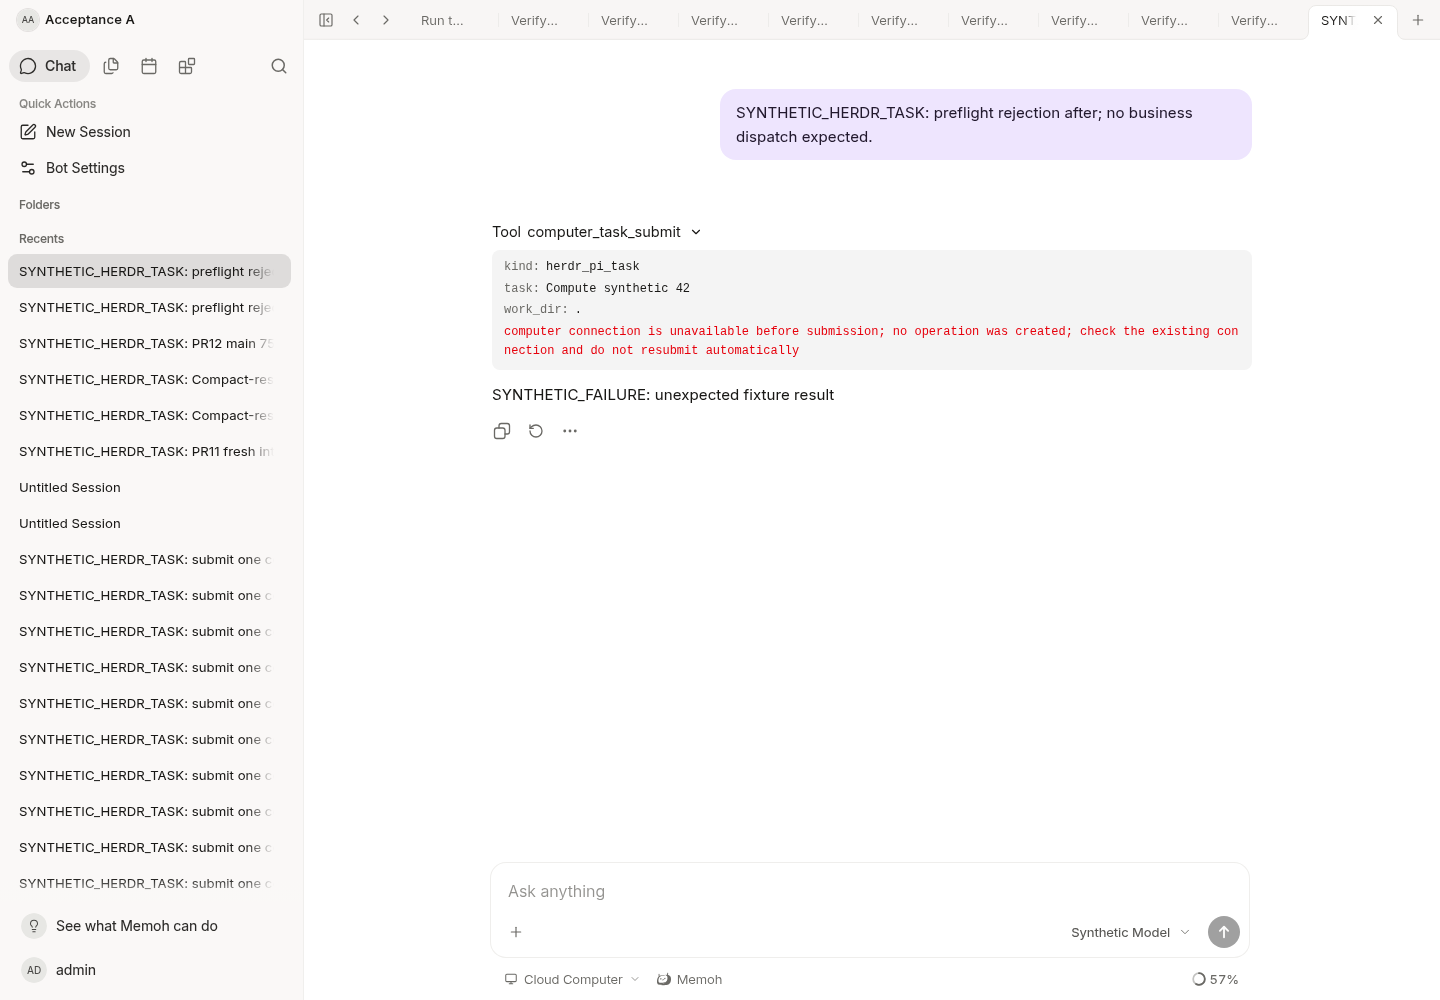
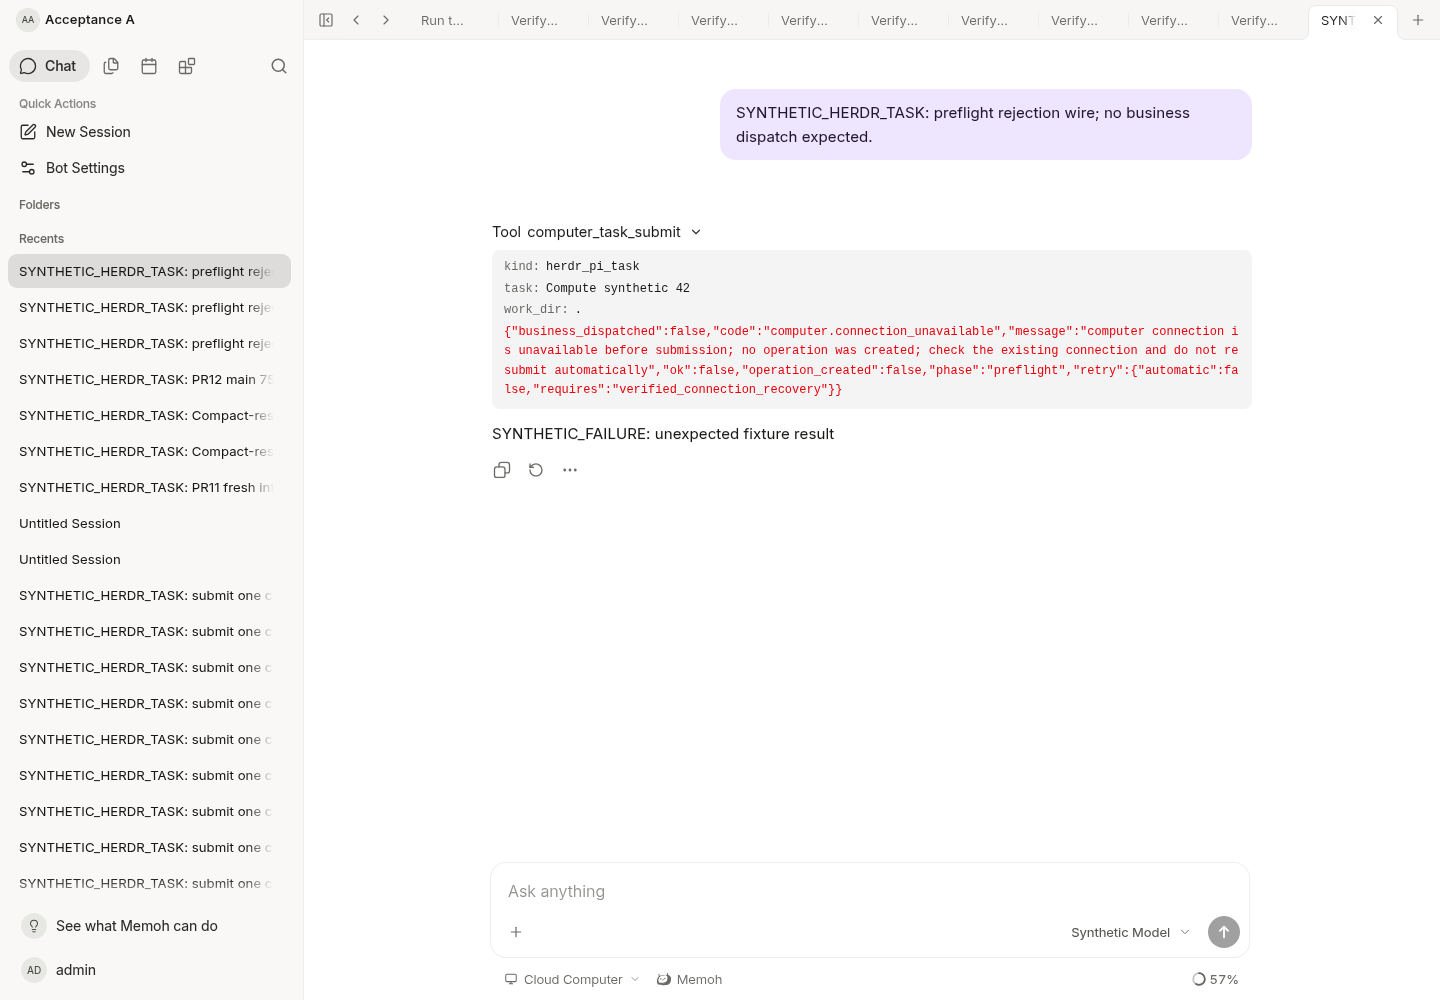
fix(computer): expose structured preflight retry semantics

diff --git a/internal/computertask/source_test.go b/internal/computertask/source_test.go
@@ -307,6 +307,46 @@ func parseResult(t *testing.T, raw []byte) Result {
 	return v.Computer
 }
 
+func TestStandardMCPPreflightFailureHasNonRetryableStructuredFacts(t *testing.T) {
+	source, store, transport, _ := setupBatch(t)
+	source.service.authorize = func(context.Context, toolcontext.ComputerBinding, string, string, string) error {
+		return fmt.Errorf("private diagnostic SECRET: %w", ErrPreflightUnavailable)
+	}
+	client := standardClient(t, source, "pc-a", false)
+	response, err := client.CallTool(t.Context(), &sdkmcp.CallToolParams{Name: "computer_task_submit", Arguments: map[string]any{"kind": "herdr_pi_task", "task": "Compute synthetic 42", "work_dir": "."}})
+	if err != nil || !response.IsError {
+		t.Fatalf("MCP preflight result=%v err=%v", response, err)
+	}
+	wire, err := json.Marshal(response.StructuredContent)
+	if err != nil {
+		t.Fatal(err)
+	}
+	var facts map[string]any
+	if err := json.Unmarshal(wire, &facts); err != nil {
+		t.Fatal(err)
+	}
+	retry, ok := facts["retry"].(map[string]any)
+	if !ok || facts["ok"] != false || facts["code"] != "computer.connection_unavailable" || facts["phase"] != "preflight" || facts["operation_created"] != false || facts["business_dispatched"] != false || retry["automatic"] != false || retry["requires"] != "verified_connection_recovery" {
+		t.Fatalf("preflight machine contract=%s", wire)
+	}
+	if _, exists := facts["computer"]; exists {
+		t.Fatal("invented operation receipt")
+	}
+	if _, exists := facts["operation_id"]; exists {
+		t.Fatal("invented operation ID")
+	}
+	if len(response.Content) != 1 {
+		t.Fatal("missing MCP text fallback")
+	}
+	text, ok := response.Content[0].(*sdkmcp.TextContent)
+	if !ok || text.Text != string(wire) {
+		t.Fatal("MCP text and structured facts differ")
+	}
+	if strings.Contains(string(wire), "SECRET") || len(store.records) != 0 || len(transport.calls) != 0 || transport.runs != 0 {
+		t.Fatal("private diagnostic leaked or preflight dispatched work")
+	}
+}
+
 func TestStandardMCPTrustedPCBindingAndSingleTask(t *testing.T) {
 	source, _, f := setup(t)
 	c := standardClient(t, source, "pc-a", false)

diff --git a/cmd/internal/core/computer_tasks_preflight_test.go b/cmd/internal/core/computer_tasks_preflight_test.go
@@ -114,10 +114,19 @@ func TestComputerTaskPreflightFailureIsNotConversationDenial(t *testing.T) {
 				args["target_id"] = tc.target
 			}
 			result, err := source.CallTool(ctx, session, "computer_task_submit", args)
-			if !errors.Is(err, tc.want) || result != nil {
+			if errors.Is(tc.want, computertask.ErrPreflightUnavailable) {
+				if err != nil || result["isError"] != true {
+					t.Fatalf("preflight wire result=%v err=%v", result, err)
+				}
+				data, ok := result["structuredContent"].(map[string]any)
+				if !ok || data["code"] != "computer.connection_unavailable" || data["phase"] != "preflight" || data["operation_created"] != false || data["business_dispatched"] != false {
+					t.Fatalf("missing machine-readable preflight facts: %v", data)
+				}
+			} else if !errors.Is(err, tc.want) || result != nil {
 				t.Fatalf("result=%v err=%v want=%v", result, err, tc.want)
 			}
-			if strings.Contains(err.Error(), "SECRET") || store.claims != 0 || probes != tc.probes {
+			wire, marshalErr := json.Marshal(result)
+			if marshalErr != nil || strings.Contains(string(wire), "SECRET") || (err != nil && strings.Contains(err.Error(), "SECRET")) || store.claims != 0 || probes != tc.probes {
 				t.Fatalf("error leaked or effect reached: claims=%d probes=%d", store.claims, probes)
 			}
 		})

diff --git a/internal/computertask/source.go b/internal/computertask/source.go
@@ -103,6 +103,18 @@ func (s *Source) CallTool(ctx context.Context, session mcp.ToolSessionContext, n
 		return nil, mcp.ErrToolNotFound
 	}
 	if err != nil {
+		if name == "computer_task_submit" && errors.Is(err, ErrPreflightUnavailable) {
+			// These facts describe this call, not the state of any older task.
+			// Do not use this envelope for uncertain claim/dispatch outcomes.
+			out := mcp.BuildToolSuccessResult(map[string]any{
+				"ok": false, "code": "computer.connection_unavailable", "phase": "preflight",
+				"operation_created": false, "business_dispatched": false,
+				"retry":   map[string]any{"automatic": false, "requires": "verified_connection_recovery"},
+				"message": ErrPreflightUnavailable.Error(),
+			})
+			out["isError"] = true
+			return out, nil
+		}
 		if receipt, ok := value.(Result); ok && receipt.ID != "" {
 			out := mcp.BuildToolSuccessResult(map[string]any{"computer": receipt, "error": err.Error()})
 			out["isError"] = true

diff --git a/docs/computer-task-compact-result.md b/docs/computer-task-compact-result.md
@@ -105,6 +105,17 @@ existing connection must be checked before another submission. It does not
 infer OAuth expiration from arbitrary transport errors, expose private causes,
 change grants, or alter unknown outcomes after a business dispatch.
 
+The standard MCP tool result carries `isError: true`. Both `structuredContent`
+and its JSON text fallback contain `ok: false`,
+`code: "computer.connection_unavailable"`, `phase: "preflight"`,
+`operation_created: false`, `business_dispatched: false`, and
+`retry: {"automatic": false, "requires": "verified_connection_recovery"}`.
+Callers can classify the failure without parsing its prose. These facts refer
+only to the current call: they do not clear or settle an older operation.
+There is no fabricated operation ID or receipt. The existing ledger still
+governs uncertain business submissions; this preflight envelope does not make
+those submissions retryable. No automatic retry or credential repair is added.
+
 The real tool source, authorizer, workspace resolver and Agenvo probe are
 covered together with a synthetic failing transport. Explicit and inferred PC
 targets in a native root conversation both reproduce the old error; missing
